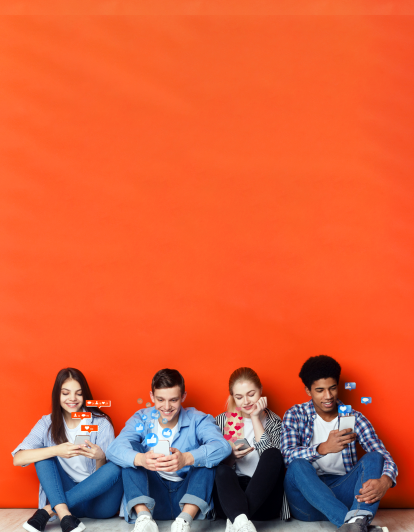
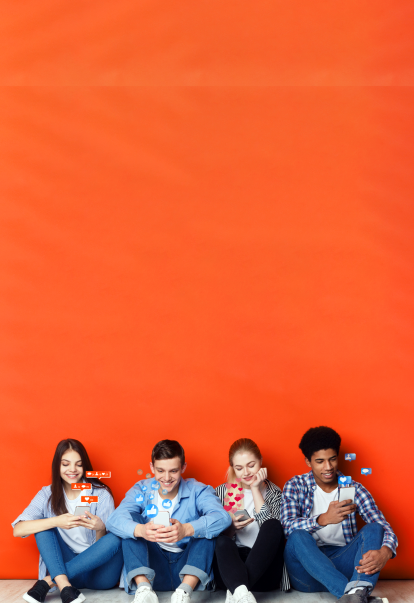
Files updated

Changed region(s): [[0.0, 0.6617, 1.0, 1.0], [0.5507, 0.9624, 0.6087, 0.9925]]

diff --git a/style.css b/style.css
@@ -92,6 +92,15 @@ p {
     justify-content: space-between;
 }
 
+#header nav.mobile-header .nav-logo {
+    max-width: 40%;
+    margin-left: 10px;
+}
+
+#header nav.mobile-header .nav-logo img {
+    width: 100%;
+}
+
 #header nav.mobile-header .menu-items {
     /* display: none;     */
 }
@@ -171,6 +180,7 @@ p {
     border-radius: 12px;
     font-size: 12px;
     color: #fff;
+    margin-left: auto;
 }
 
 @media (max-width: 1200px) {
@@ -299,7 +309,7 @@ p {
 
     .home-banner {
         background-image: url(./Assets/img/home-banner-mob.png);
-        padding: 15% 0 40%;
+        padding: 10% 0 50%;
     }
     
 
